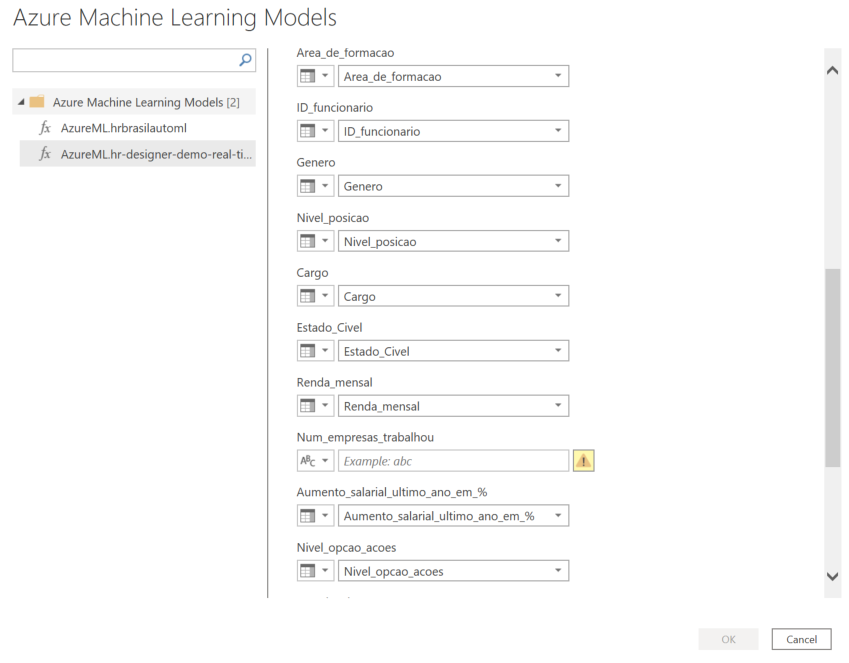
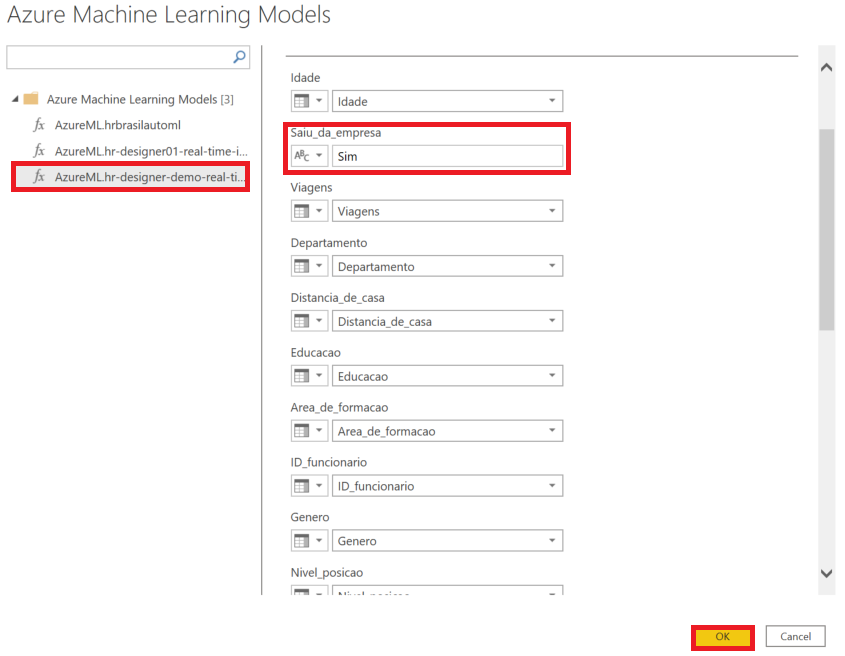
update

diff --git a/README.md b/README.md
@@ -169,7 +169,7 @@ ___
 
         ![img25](/img/importdata01.png)
 
-        - Tenha certeza que as colunas estão configuradas corretas com **'Interger'** para palavras e **'Integer'** para números
+        - Tenha certeza que as colunas estão configuradas corretas com **'Interger'** para colunas que contêm palavras e **'Integer'** para as colunas que contêm números
 
         ![img26](/img/importdata02.png)
         ___    
@@ -455,9 +455,11 @@ ___
 
 ![img55](/img/pbi11.png)
 
-- Nos campos sem dados você deve colocar um exemplo. Neste caso seria um número (1 por exemplo) conforme imagem abaixo:
+- Nos campos sem dados você deve colocar um exemplo. Neste caso seria "Sim" no campo **"Saiu_da_empresa"** e no campo **"Num_empresas_trabalhou"** digite um número, no meu caso usei o "4"
 
 ![img56](/img/pbi11.png)
+
+![img57](/img/pbi11-2.png)
 
 - Em seguida é só clicar em **"OK"**
 
